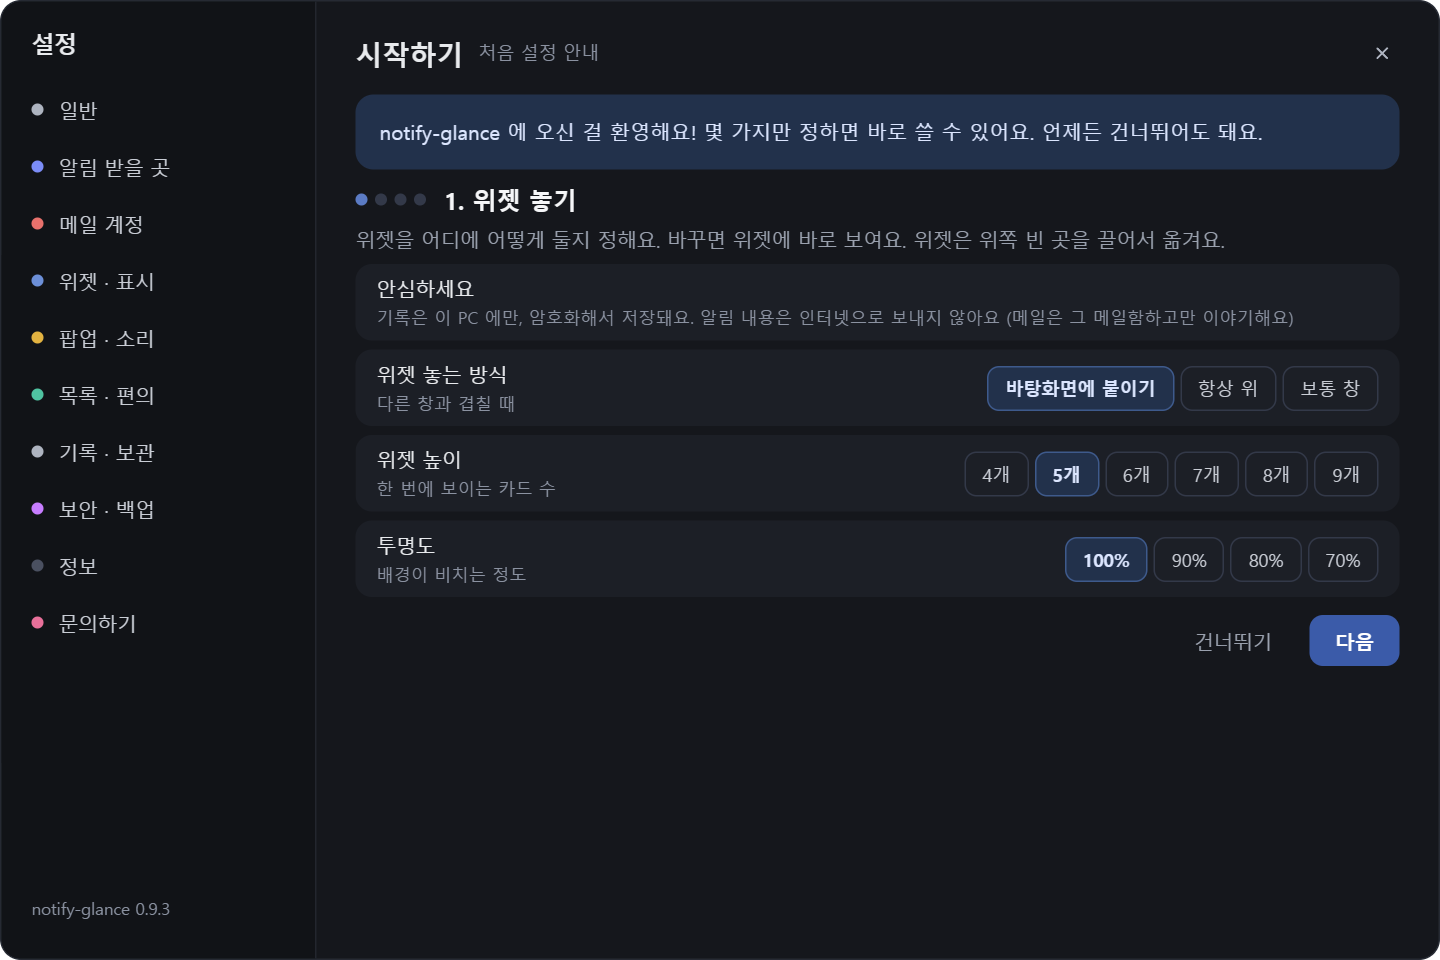
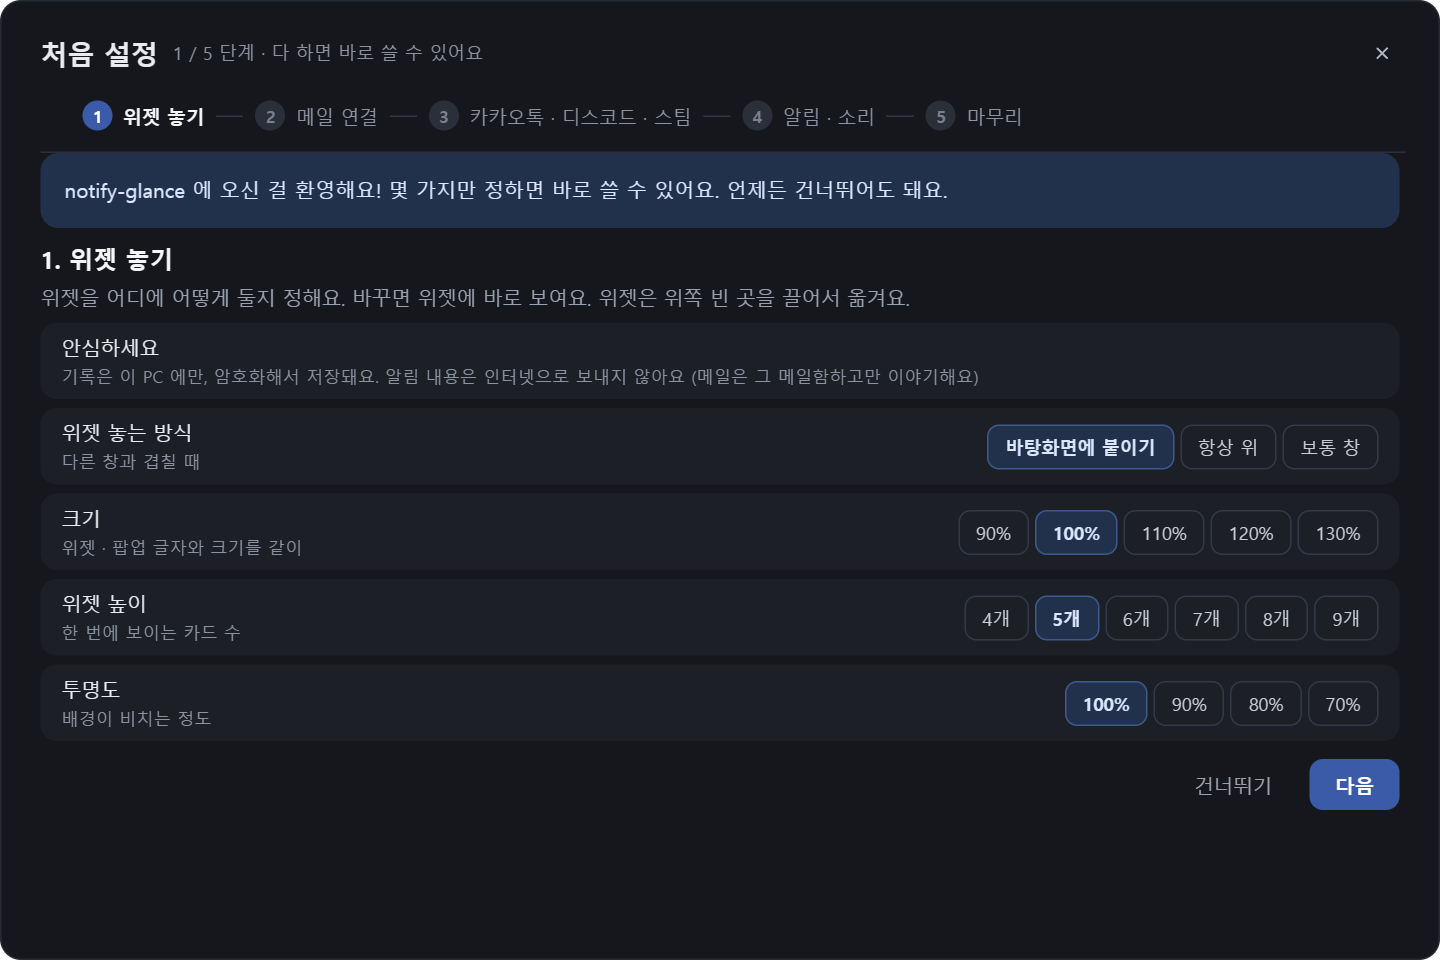
소개 페이지: 0.9.8 에 맞춤 (사용법 사진 · 처음 설정 5단계 · 스팀 알림 탭 · 연결 문제 알림 · 메일 속 사진 안내), 사진 다시 찍음

diff --git a/README.md b/README.md
@@ -48,11 +48,11 @@
 <table>
   <tr>
     <td align="center" width="50%"><img src="images/mail-tabs.png" alt="네이버 메일 칩 아래 받은편지함 · 청구·결제 · 프로모션 · SNS·카페 · 스팸 탭"></td>
-    <td align="center" width="50%"><img src="images/steam.png" alt="스팀 칩 아래 전체 · 메시지 · 도전과제 · 게임 탭과 친구 메시지 · 도전과제 · 게임 카드"></td>
+    <td align="center" width="50%"><img src="images/steam.png" alt="스팀 칩 아래 전체 · 메시지 · 도전과제 · 게임 · 알림 탭과 친구 메시지 · 도전과제 · 컨트롤러 연결 · 게임 카드"></td>
   </tr>
   <tr>
     <td align="center"><b>메일</b><br>Gmail · 네이버 여러 계정, 편지함 탭 · 스팸</td>
-    <td align="center"><b>스팀</b><br>친구 메시지 · 도전과제 · 설치 · 업데이트 · 플레이 시간</td>
+    <td align="center"><b>스팀</b><br>친구 메시지 · 도전과제 · 설치 · 업데이트 · 플레이 시간<br>종류마다 켜고 끄기 (친구 접속 · 찜 목록 할인 · 컨트롤러 등)</td>
   </tr>
 </table>
 
@@ -77,6 +77,7 @@
 </table>
 
 - **인증번호 자동 복사**: 인증번호가 오면 바로 클립보드로 ("인증번호 482913 를 복사했어요")
+- **연결 문제 알림**: 메일 · 디스코드 · 카톡 연결이 끊기면 구석 알림 창으로 알려 주고, 그 칩에 빨간 점이 붙어요 (마우스를 올리면 이유)
 - **게임 · 전체화면 중**이나 **잠깐 조용히**(30분 · 1시간 · 3시간 · 내일 아침까지)를 켜 두면 알림 창 · 소리를 안 내요
 
 ### 찾기 · 미니 모드 · 우클릭
@@ -103,11 +104,11 @@
 
 <table>
   <tr>
-    <td align="center" width="50%"><img src="images/welcome.png" alt="시작하기 1단계 위젯 놓기: 안심 문구 · 위젯 놓는 방식 · 높이 · 투명도"></td>
-    <td align="center" width="50%"><img src="images/kakao-guide.png" alt="시작하기 3단계: 카카오톡 준비 6단계 안내와 Windhawk 사이트 · 모드 코드 복사 · 경로 복사 · 다시 확인 버튼"></td>
+    <td align="center" width="50%"><img src="images/welcome.png" alt="처음 설정 1단계 위젯 놓기: 안심 문구 · 위젯 놓는 방식 · 크기 · 높이 · 투명도"></td>
+    <td align="center" width="50%"><img src="images/kakao-guide.png" alt="처음 설정 3단계: 카카오톡 준비 6단계 안내와 Windhawk 사이트 · 모드 코드 복사 · 경로 복사 · 다시 확인 버튼"></td>
   </tr>
   <tr>
-    <td align="center"><b>처음 켜면</b><br>위젯 놓기 → 메일 → 카톡 · 디코 · 스팀 → 마무리</td>
+    <td align="center"><b>처음 켜면</b><br>위젯 놓기 → 메일 → 카톡 · 디코 · 스팀 → 알림 · 소리 → 마무리</td>
     <td align="center"><b>카카오톡 준비</b><br>버튼 몇 번으로 따라 하기</td>
   </tr>
   <tr>
@@ -120,6 +121,11 @@
   </tr>
 </table>
 
+<p align="center">
+  <img src="images/guide.png" width="720" alt="설정 → 사용법: 위에 이전 · 1 / 15 한눈에 보기 · 다음, 아래에 위젯 그림과 번호마다 칩 · 도구 줄 · 카드 · 안 읽은 수 · 더 보기 설명">
+  <br><b>사용법</b> · 카드 · 끌기 · 팝업 · 칩 · 메일 · 단축키를 그림과 함께 (설정 → 사용법, 트레이 메뉴에도)
+</p>
+
 <sub>사진 속 이름 · 메시지 · 메일 · 게임은 모두 예시예요.</sub>
 
 ---
@@ -128,7 +134,7 @@
 
 1. 오른쪽 **Releases** 에서 가장 위(Latest) 버전을 열어요.
 2. **`NotifyGlance_버전_x64-setup.exe`** 하나만 받아서 실행해요. (`latest.json` · `.sig` 는 자동 업데이트용이라 안 받아도 돼요.)
-3. 설치가 끝나면 위젯이 뜨고, 처음엔 **시작하기** 안내가 열려요.
+3. 설치가 끝나면 위젯이 뜨고, 처음엔 **처음 설정** 안내가 열려요. 쓰는 법은 언제든 **설정 → 사용법**에서 볼 수 있어요.
 
 > **"Windows의 PC 보호" 파란 창이 뜨면?**
 > 널리 알려지지 않은 개인 프로그램이라 윈도우가 한 번 확인하는 창이에요. **추가 정보 → 실행** 을 누르면 설치돼요.
@@ -144,15 +150,16 @@
 | **윈도우 알림** | 없음. 윈도우 알림 센터에 뜨는 건 다 와요 |
 | **카카오톡** | 카톡 알림은 윈도우 알림이 아니라서 **Windhawk** 모드가 필요해요 (아래) |
 | **디스코드** | 그냥 써도 윈도우 알림으로 와요. **연동하면** 채널 · 서버 이름, 이어지는 대화, 사진 미리보기까지 (선택) |
-| **메일** | Gmail · 네이버: 메일 주소 + **앱 비밀번호** (설정 → 메일 계정에서 차례로 안내) |
+| **메일** | Gmail · 네이버: 메일 주소 + **앱 비밀번호** (설정 → 메일 계정에서 차례로 안내, 서버 연결 → 로그인 → 메일 가져오기가 단계마다 보이고 막히면 이유가 나와요) |
 | **스팀** | 없음. 깔려 있으면 저절로 (게임 화면 안에만 뜨는 메시지는 못 받아요) |
 
 ### 💬 카카오톡 알림 받기 (한 번만, 5분쯤)
 1. **[Windhawk](https://windhawk.net)** 설치 (윈도우 프로그램을 고쳐 쓰는 무료 도구)
 2. Windhawk 오른쪽 아래 **[새 모드 만들기]**
-3. 편집 칸 글을 모두 지우고, notify-glance **설정 → 시작하기 3단계의 [모드 코드 복사]** 로 복사한 코드를 붙여 넣기
+3. 편집 칸 글을 모두 지우고, notify-glance **처음 설정 3단계(또는 설정 → 알림 받을 곳)의 [모드 코드 복사]** 로 복사한 코드를 붙여 넣기
 4. 왼쪽 **[모드 컴파일]** → "모드 활성화" 켜기 → **[편집 모드 나가기]**
 5. 모드 **[설정]** 탭: **"기록 파일 경로"** 에 notify-glance 의 **[경로 복사]** 로 복사한 경로를 붙여 넣고 **[설정 저장]**
+   - "알림을 파일로 기록" · "프로필 사진 저장"은 **켜 두기** (notify-glance 가 읽는 것). "프로필 저장 폴더"는 비워 두기
    - "알림창을 다른 모니터로 이동"은 카톡 알림 창을 **다른 모니터로 옮기는 기능**이에요. 원래 자리가 좋으면 끄기
 6. 카톡을 껐다 켜고 메시지를 하나 받으면 "준비됨"
 
@@ -165,6 +172,7 @@
 ---
 
 ## 🎛 이렇게 써요
+그림과 함께 자세히 보려면 앱 안 **설정 → 사용법**.
 
 | 하고 싶은 것 | 방법 |
 |---|---|
@@ -181,11 +189,11 @@
 
 ## 💾 기록 · 설정은 어디에?
 - 위치: `%USERPROFILE%\.notifyglance\` · 기록은 **암호화**돼 있고 열쇠는 윈도우 자격 증명 관리자에만 있어요 (파일만 가져가면 못 읽어요).
-- 보관 기간 · 휴지통 비우기 · **설정 백업** · **기록 내보내기(.txt · .csv)** 는 설정 → 기록 · 보관 / 보안 · 백업.
+- 보관 기간 · 휴지통 비우기 · **설정 백업** · **기록 내보내기(.txt · .csv)** 는 설정 → 기록 · 백업.
 
 ## 🔒 개인정보
 - 알림 기록은 **내 PC 에만, 암호화해서** 저장해요. 알림 내용을 인터넷으로 보내지 않아요.
-- 인터넷은 이것들에만 써요: **메일 서버**(내 메일 받기) · **디스코드**(연동했을 때만) · **스팀 이미지 서버**(도전과제 아이콘 · 친구 사진) · **새 버전 확인**(GitHub) · 직접 보내는 **문의하기**.
+- 인터넷은 이것들에만 써요: **메일 서버**(내 메일 받기) · **메일 속 사진**(메일 팝업을 열 때, 그 사진이 있는 곳에서 받아 와요. Gmail · 네이버 웹에서 메일을 열 때와 같아요) · **디스코드**(연동했을 때 · 프로필 사진) · **스팀 이미지 서버**(도전과제 아이콘 · 친구 사진) · **새 버전 확인**(GitHub) · 직접 보내는 **문의하기**.
 - 메일 · 디스코드 비밀번호는 **윈도우 자격 증명 관리자에만** 저장해요.
 
 ## 💌 문의 · 버그 제보
@@ -193,7 +201,7 @@
 
 ## ❓ 자주 묻는 질문
 **카톡 알림이 안 와요.**
-설정 → 정보 → 처음 설정 안내 [다시 보기] → 3단계에서 "준비됨"인지 보세요. Windhawk 모드의 "기록 파일 경로"가 notify-glance 가 알려 준 경로인지, 코드를 바꾼 뒤 **[모드 컴파일]** 을 했는지 확인해 주세요.
+설정 → 알림 받을 곳(또는 설정 → 정보 → 처음 설정 안내 [다시 보기] → 3단계)에서 "준비됨"인지 보세요. Windhawk 모드의 "기록 파일 경로"가 notify-glance 가 알려 준 경로인지, 코드를 바꾼 뒤 **[모드 컴파일]** 을 했는지 확인해 주세요.
 
 **스팀 친구 메시지가 안 와요.**
 게임 화면 안에만 뜨는 메시지는 바탕화면 창이 없어서 받을 수 없어요.
@@ -209,7 +217,7 @@
 
 | 상황 (Ryzen 7 7800X3D) | CPU | 메모리 |
 |---|---|---|
-| 가만히 | 약 0.01% | 약 250MB |
+| 가만히 | 약 0.01% | 약 170MB |
 
 ---
 
